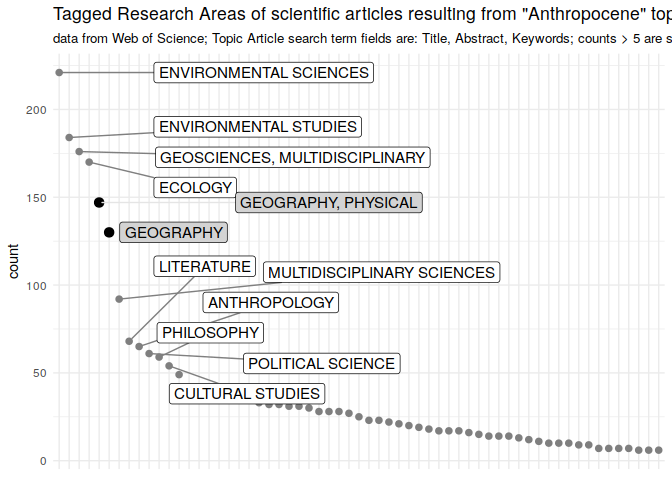
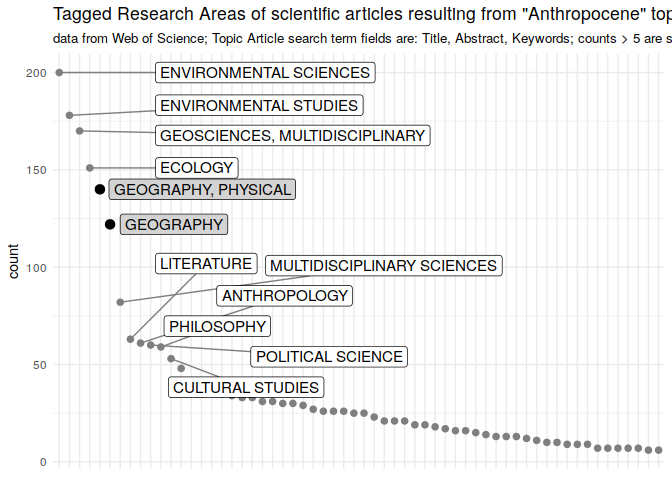
rerender

diff --git a/Bibliometry.md b/Bibliometry.md
@@ -1,4 +1,4 @@
-Data was downloaded on Fri Apr 20 2018 from [Web of
+Data was downloaded on Tue Apr 24 2018 from [Web of
 Science](http://apps.webofknowledge.com/summary.do?product=WOS&search_mode=GeneralSearch&qid=1&SID=F2uyu8Tz33gg81ezRRV&page=)
 using advanced search and the query "TS=anthropocene". TS is the Web of
 Science tag for "Topic Field" and includes the following fields
@@ -35,7 +35,7 @@ package (Aria and Cuccurullo 2017).
     raw_data <- readFiles("./data/wos_query_anthropocene/wos_anthropocene_topic_0001-500.bib", 
                           "./data/wos_query_anthropocene/wos_anthropocene_topic_0501-1000.bib",
                           "./data/wos_query_anthropocene/wos_anthropocene_topic_1001-1500.bib",
-                          "./data/wos_query_anthropocene/wos_anthropocene_topic_1500-1610.bib")
+                          "./data/wos_query_anthropocene/wos_anthropocene_topic_1500-1510.bib")
     raw_df <- convert2df(file = raw_data, dbsource = "isi", format = "bibtex")
 
     ## Articles extracted   100 
@@ -53,8 +53,7 @@ package (Aria and Cuccurullo 2017).
     ## Articles extracted   1300 
     ## Articles extracted   1400 
     ## Articles extracted   1500 
-    ## Articles extracted   1600 
-    ## Articles extracted   1610
+    ## Articles extracted   1511
 
 [Web of Science Core Collection Field
 Tags](https://images.webofknowledge.com/images/help/WOS/hs_wos_fieldtags.html)
@@ -520,7 +519,7 @@ Wickham 2014), `bibliometrix` (Aria and Cuccurullo 2017), `dplyr`
     ##  language en_US:en                    
     ##  collate  en_US.UTF-8                 
     ##  tz       Europe/Berlin               
-    ##  date     2018-04-21
+    ##  date     2018-04-24
 
     ## Packages -----------------------------------------------------------------
 
@@ -540,7 +539,7 @@ Wickham 2014), `bibliometrix` (Aria and Cuccurullo 2017), `dplyr`
     ##  datasets      * 3.4.4      2018-03-15
     ##  devtools        1.13.5     2018-02-18
     ##  digest          0.6.15     2018-01-28
-    ##  dplyr         * 0.7.4.9004 2018-04-10
+    ##  dplyr         * 0.7.5      2018-04-23
     ##  evaluate        0.10.1     2017-06-24
     ##  factoextra      1.0.5.999  2017-12-19
     ##  FactoMineR      1.39       2017-11-10
@@ -579,7 +578,7 @@ Wickham 2014), `bibliometrix` (Aria and Cuccurullo 2017), `dplyr`
     ##  Rcpp            0.12.16    2018-03-13
     ##  readr         * 1.1.1      2017-05-16
     ##  RISmed          2.1.7      2017-06-06
-    ##  rlang           0.2.0.9001 2018-04-09
+    ##  rlang           0.2.0.9001 2018-04-23
     ##  rmarkdown       1.9        2018-03-01
     ##  rprojroot       1.3-2      2018-01-03
     ##  rscopus         0.5.3      2017-10-11
@@ -617,7 +616,7 @@ Wickham 2014), `bibliometrix` (Aria and Cuccurullo 2017), `dplyr`
     ##  local                                 
     ##  CRAN (R 3.4.3)                        
     ##  cran (@0.6.15)                        
-    ##  Github (tidyverse/dplyr@bfc9b28)      
+    ##  Github (tidyverse/dplyr@fbbf157)      
     ##  CRAN (R 3.4.1)                        
     ##  Github (kassambara/factoextra@e76c5bb)
     ##  CRAN (R 3.4.2)                        
@@ -656,7 +655,7 @@ Wickham 2014), `bibliometrix` (Aria and Cuccurullo 2017), `dplyr`
     ##  cran (@0.12.16)                       
     ##  CRAN (R 3.4.0)                        
     ##  CRAN (R 3.4.4)                        
-    ##  Github (tidyverse/rlang@9c0637a)      
+    ##  Github (tidyverse/rlang@82b2727)      
     ##  CRAN (R 3.4.3)                        
     ##  CRAN (R 3.4.4)                        
     ##  cran (@0.5.3)                         
